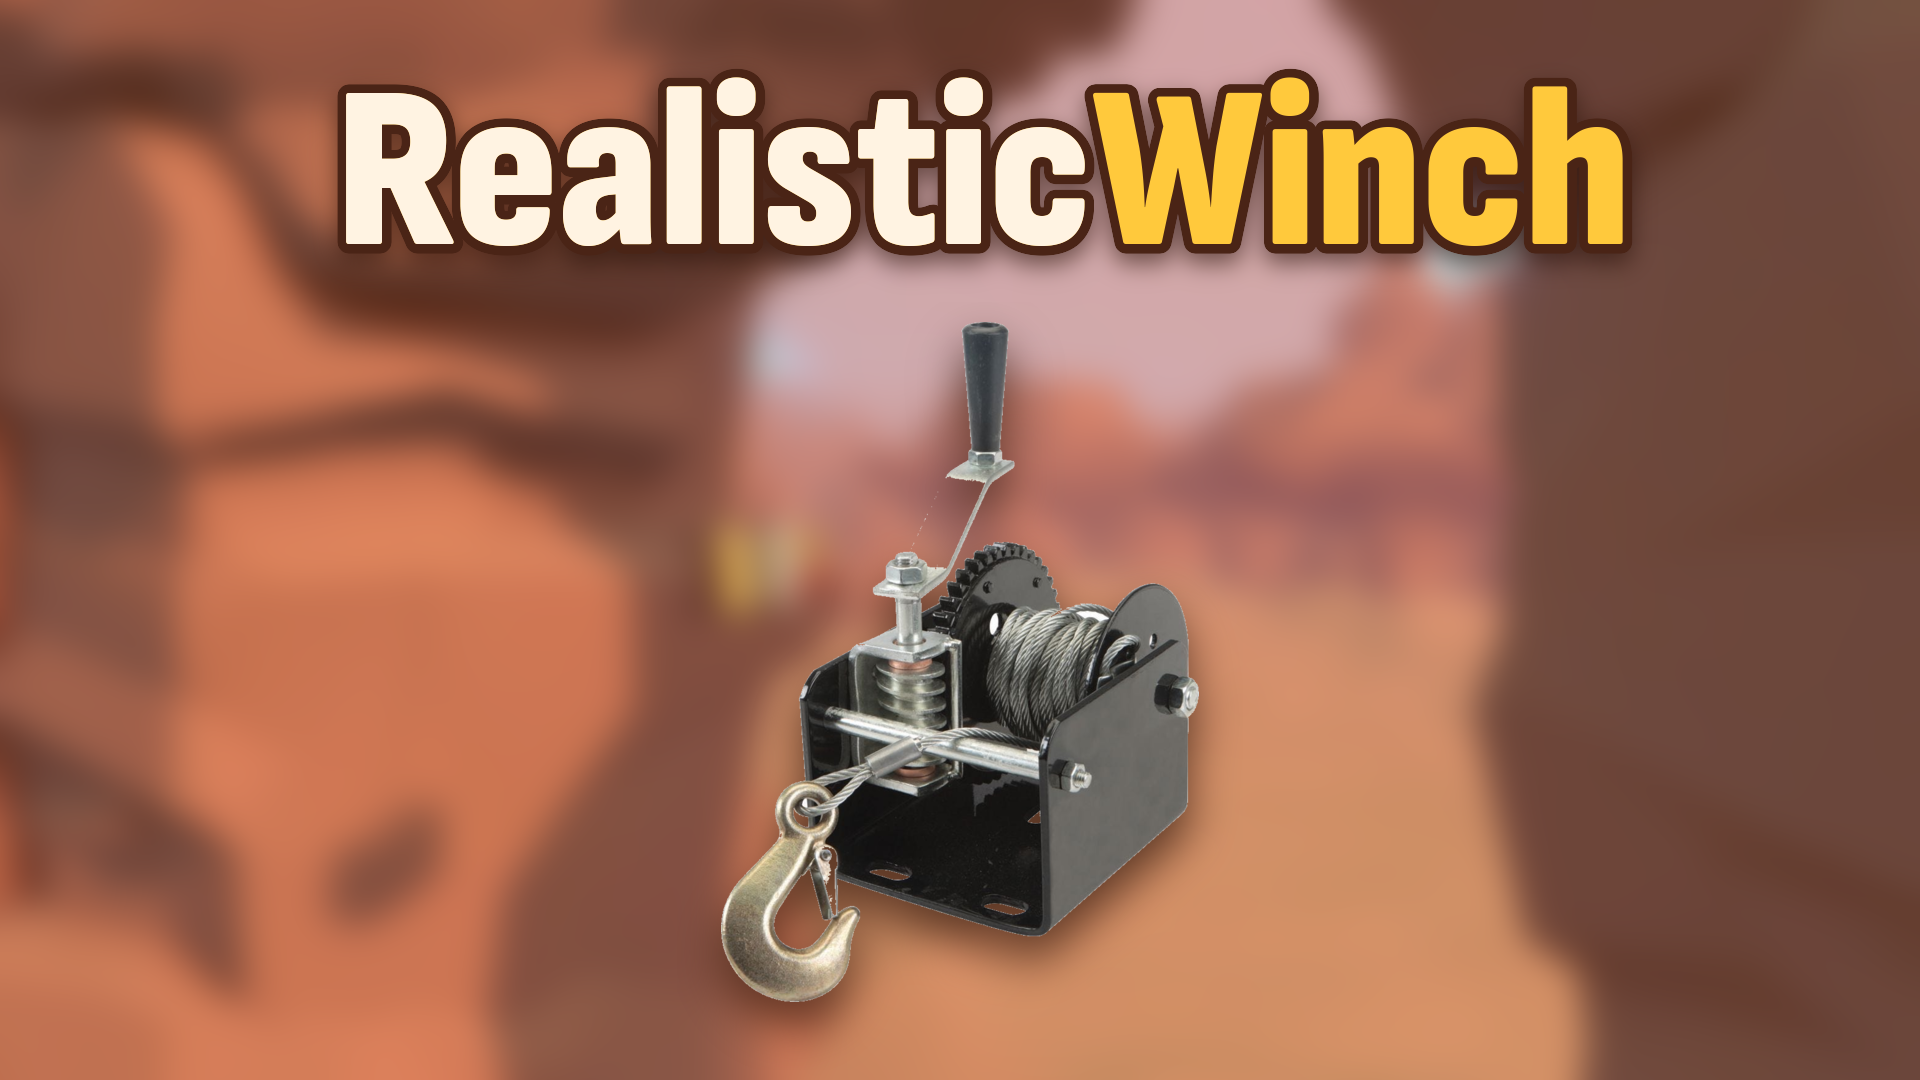
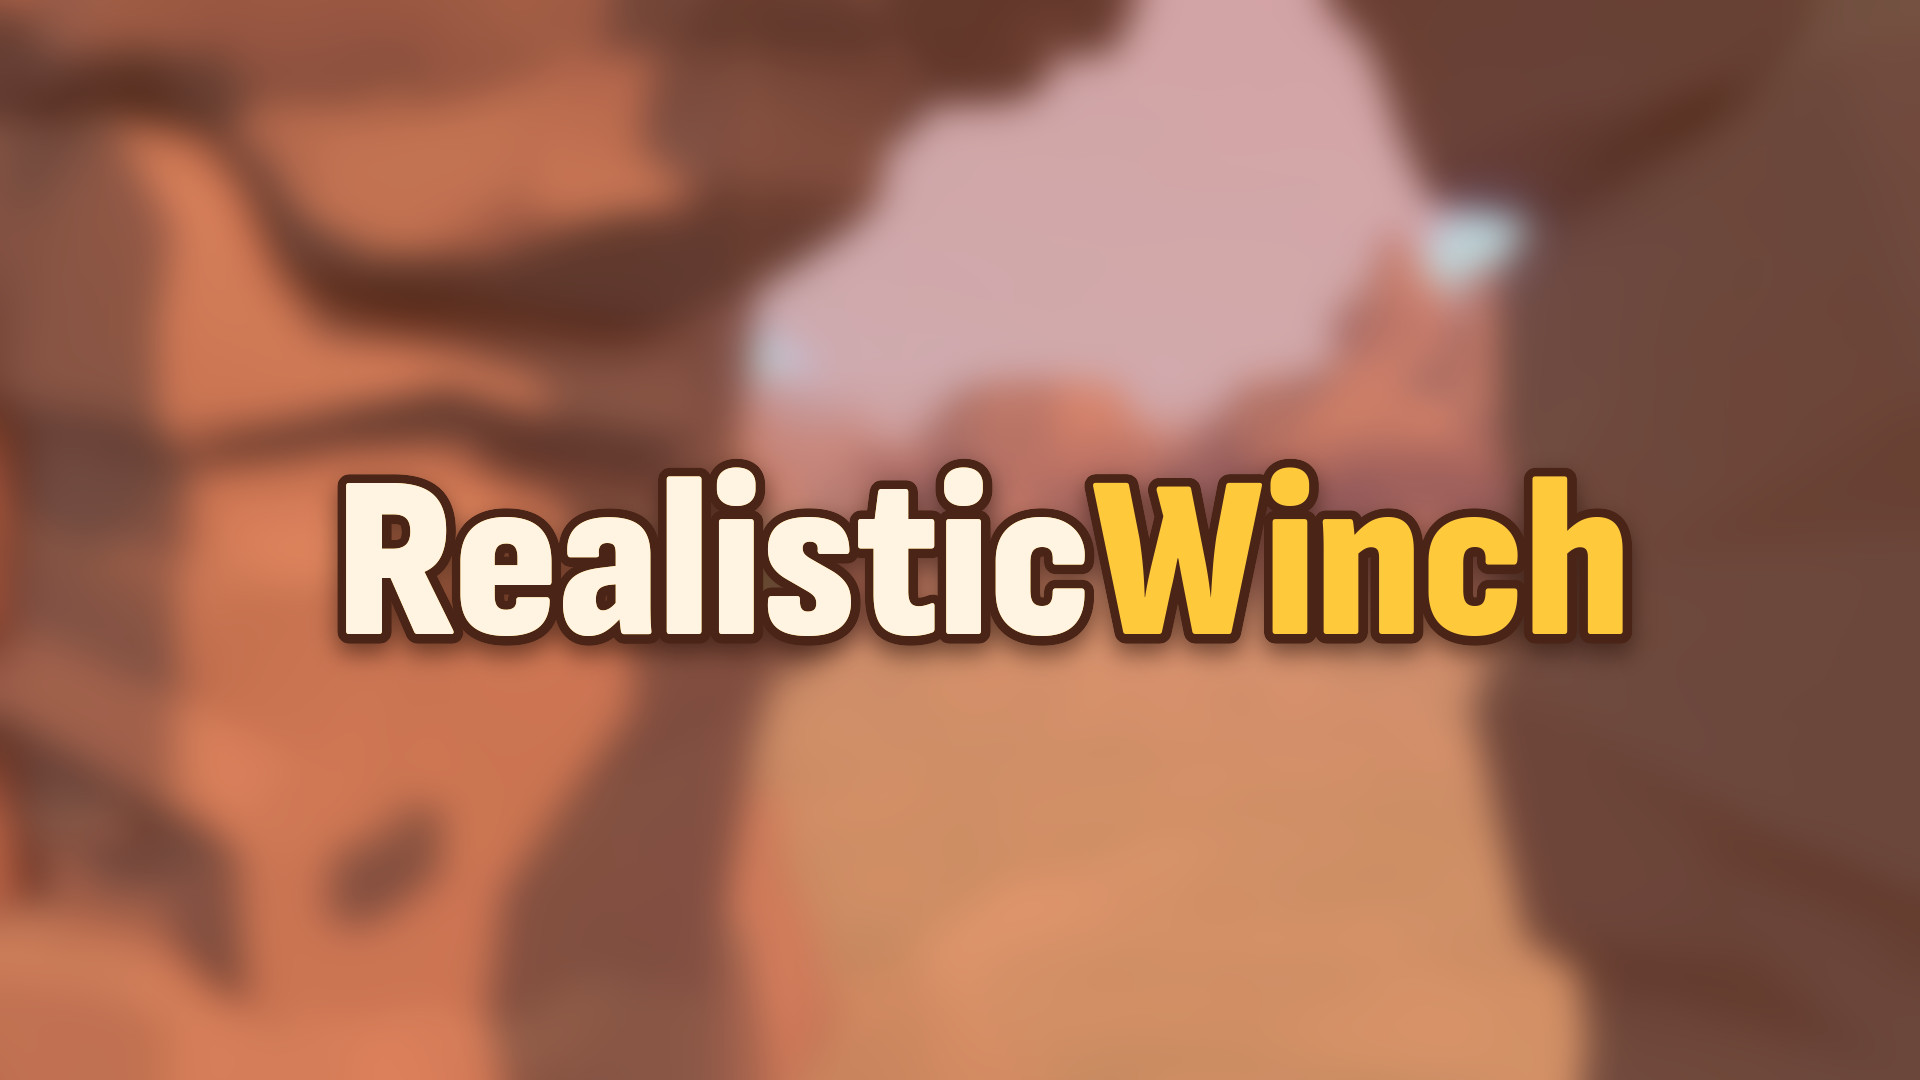
Link the Nexus Mods page (mod 118, file 341)
Swap the title card's placeholder product photo for an in-game one.

Changed region(s): [[0.1562, 0.0611, 0.875, 0.9778]]

diff --git a/README.md b/README.md
@@ -2,6 +2,8 @@
 
 ![RealisticWinch](media/title.png)
 
+Download: [Nexus Mods](https://www.nexusmods.com/overthehill/mods/118) (mod 118, file 341).
+
 A [MelonLoader](https://github.com/LavaGang/MelonLoader) mod for Over the Hill. The winch rope bends around rocks, trees and terrain instead of passing through them, and slack rope lies on the ground.
 
 - While the rope is bent, it pulls along the whole path like a rope over a pulley, with friction over the bends.
